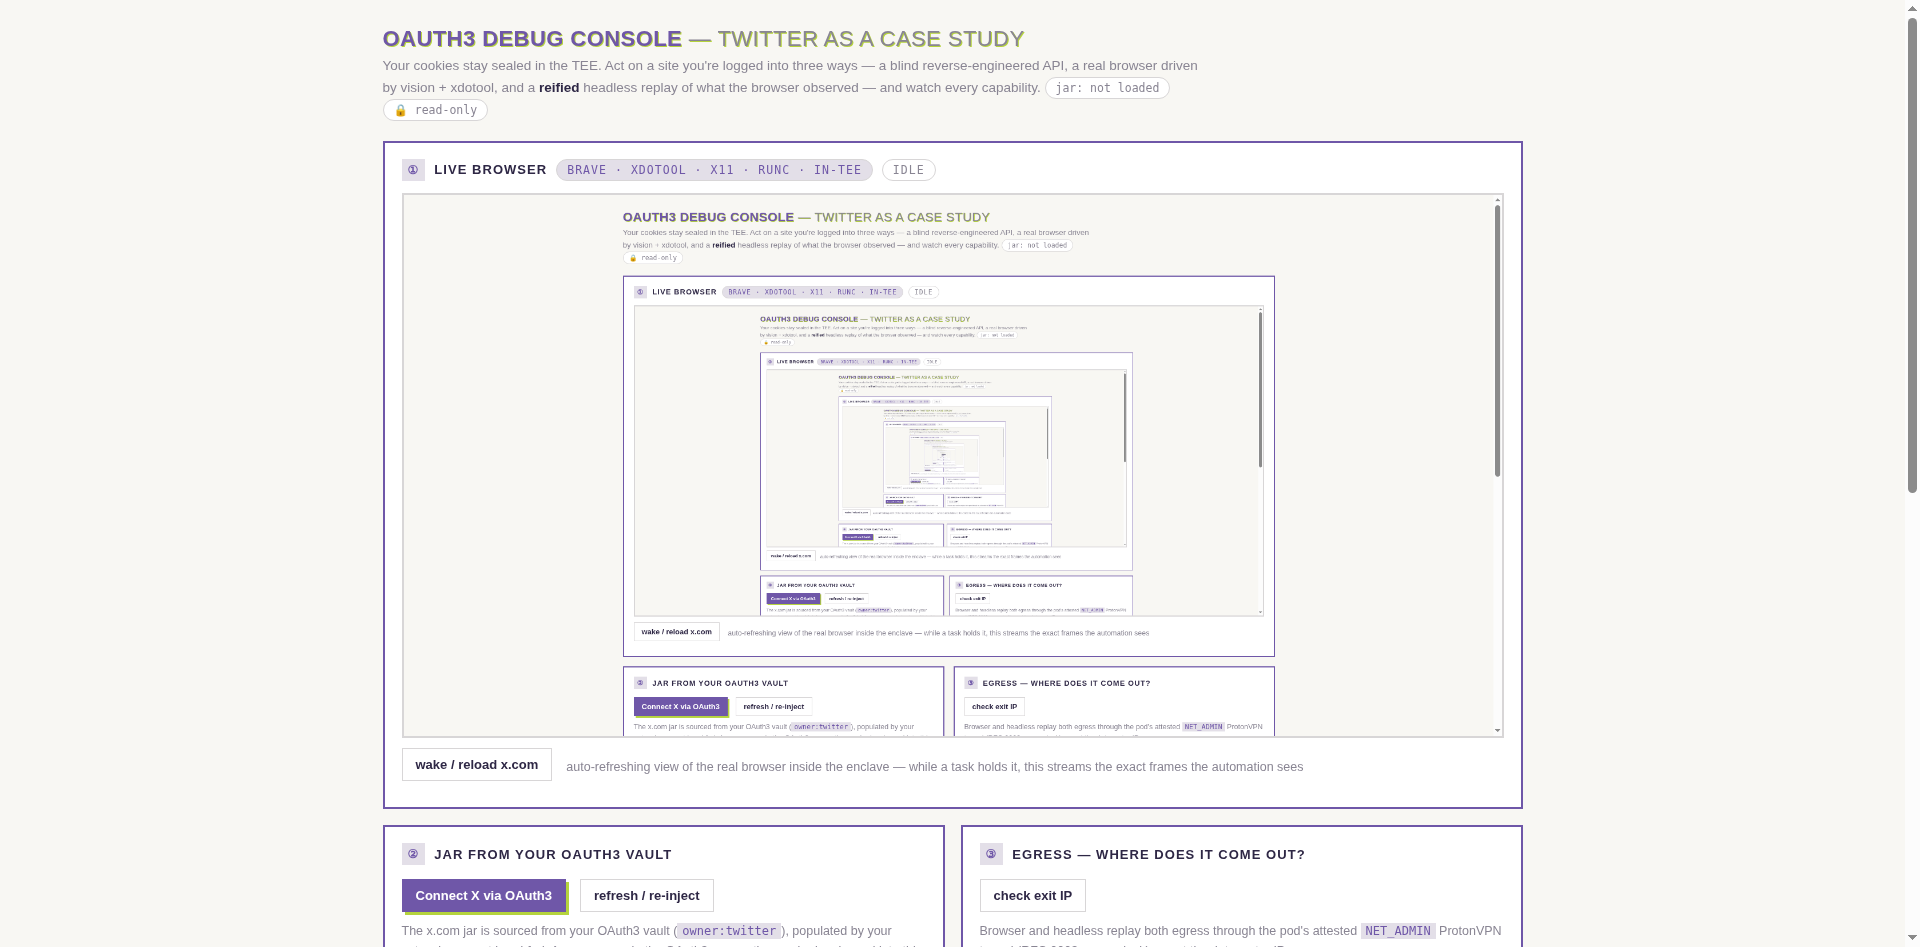
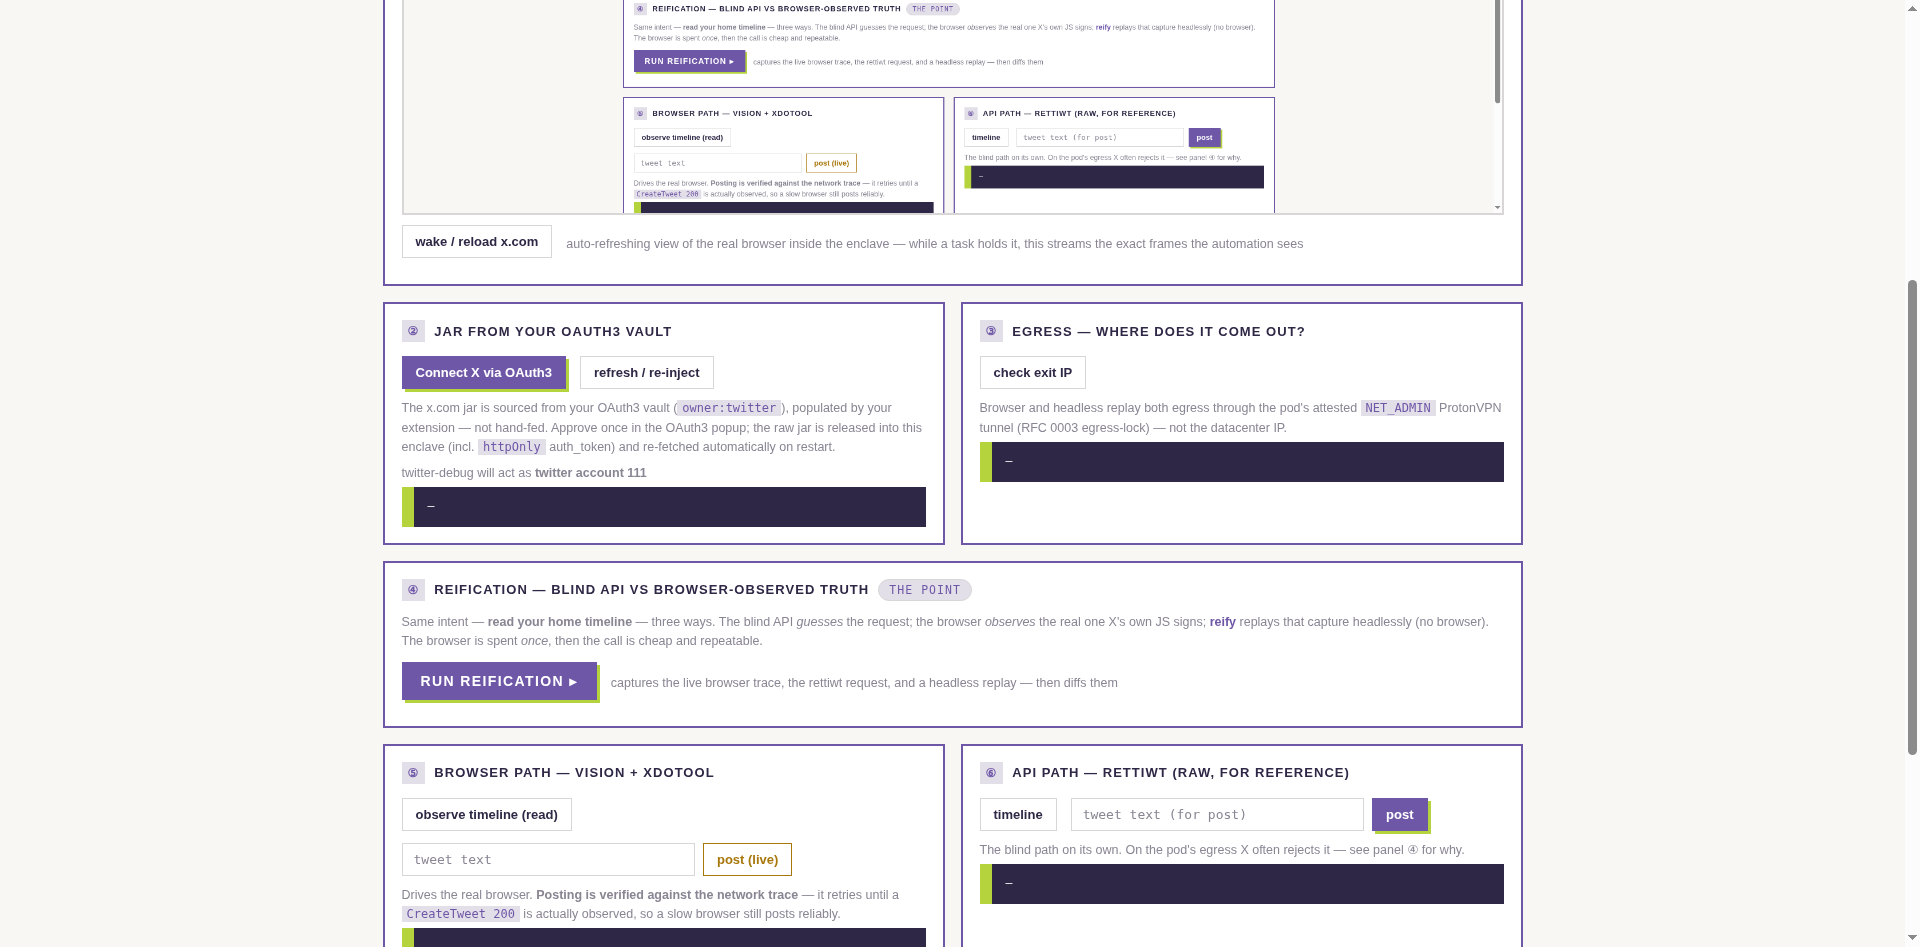
evidence(#69): re-capture consent-line PNGs scrolled into view + add default-state step
The pass-1 04-consent-line.png did NOT actually contain the consent line: #act-as lays
out at viewport y≈986 while the envoy viewport is 947px tall, so it sat below the fold and
the shot was misleading under the "does this image show the caption's claim?" rule.

- 04-consent-line.png (SET, ACCOUNT=111): re-captured after #act-as.scrollIntoView() →
  rect {y:463,inView:true}, text "twitter-debug will act as twitter account 111".
- 03-default-account.png (UNSET, ACCOUNT not set): new step showing the backward-compat
  path the PR preserves → "twitter-debug will act as your default twitter account".
- Cross-check: the two 1920×947 PNGs differ by exactly 1092 px, ALL inside the consent-
  line band (y≈460-490, x≈395-930) — the only visual difference is the account text.

Both are real envoy/neko Brave captures of the dashboard served by the real server.ts
(ACCOUNT set / unset), serialized with flock /tmp/envoy-bridge.lock. The screenshot tool
was confirmed to reflect live DOM (a full-screen red overlay yields a wholly different
image). No code changed in this commit — evidence only.

diff --git a/twitter-debug/.evidence/issue-69/flow.md b/twitter-debug/.evidence/issue-69/flow.md
@@ -61,39 +61,57 @@ sync XHR /twitter/oauth3/status → 200 {"connected":true,...,"account":"111"}
 ```
 See `bullet3-consent-evaluate.txt`.
 
-**PNG captured (rework pass, 2026-08-05).** The earlier "screenshot times out on every page"
-diagnosis was **wrong** — the bridge `screenshot` tool works on real `http(s)` URLs; it only fails
-on `about:blank`/`data:` pages, where the extension has no host permission (error: *"Cannot access
-contents url \"\" — Extension manifest must request permission to access this host"*), which the
-HTTP layer surfaces as a generic `timeout`. Re-running against the real dashboard URL captured the
-consent-line PNG on the first try. The real `server.ts` was booted with `ACCOUNT=111` (the #69
-change), so `/twitter/oauth3/status` returns `account:"111"`; the real dashboard's `pollConn` reads
-it and renders `#act-as`. Captured in the real envoy/neko Brave (serialized via
-`flock /tmp/envoy-bridge.lock`):
+**PNGs captured (rework pass 2, 2026-08-05) — consent line scrolled into view.** Two corrections
+from pass 1:
+1. The pass-1 "screenshot times out on every page" diagnosis was **wrong** — the bridge
+   `screenshot` tool works on real `http(s)` URLs (it only fails on `about:blank`/`data:` pages, no
+   host permission → generic `timeout`). The tool reflects live DOM (verified this pass: painting a
+   full-screen red overlay yields a completely different image).
+2. **The pass-1 viewport shot did not actually contain the consent line** — `#act-as` lays out at
+   viewport y≈986 while the envoy viewport is only 947px tall, so it sat *below the fold* and the
+   shot was misleading under the "does this image show the caption's claim?" rule. Fix: each shot
+   now runs `#act-as.scrollIntoView({block:'center'})` first, landing it at viewport y≈463
+   (`inView:true` verified) before the screenshot.
+
+Both shots below are real envoy/neko Brave captures of the dashboard served by the real `server.ts`,
+serialized with `flock /tmp/envoy-bridge.lock`.
+
+**`04-consent-line.png` — SET state (`ACCOUNT=111`), bullet 3 primary:**
 ```
 location.href        = http://172.17.0.1:8931/twitter-debug/
-sync XHR /twitter/oauth3/status → 200 {"connected":false,...,"account":"111"}   (real agent)
+#act-as rect         = {x:401,y:463,w:524,h:19,vh:947,inView:true}
 #act-as.textContent  = "twitter-debug will act as twitter account 111"
-ACCT (page global)   = "111"
-lockpill             = "🔒 read-only"   (this capture booted no token → unconnected; see note)
-screenshot           = 04-consent-line.png (1920×947, 156847 bytes, non-blank: per-channel
-                       stdev ≈17–24, 32 coarse colors)
+sync XHR /twitter/oauth3/status → 200 {"connected":false,...,"account":"111"}   (real agent)
+ACCT (page global)   = "111"      lockpill = "🔒 read-only" (rig booted no token)
 ```
-The consent line names the account. See `bullet3-consent-png.txt` and `04-consent-line.png`.
+**`03-default-account.png` — UNSET state (`ACCOUNT` not set): the backward-compat path the PR
+explicitly preserves ("behavior is unchanged when `ACCOUNT` is unset; single-jar subjects keep
+working") and a second, distinct Tier-2 step:**
+```
+location.href        = http://172.17.0.1:8931/twitter-debug/
+#act-as rect         = {x:401,y:463,w:524,h:19,vh:947,inView:true}
+#act-as.textContent  = "twitter-debug will act as your default twitter account"
+sync XHR /twitter/oauth3/status → 200 {"connected":false,...,"account":null}   (real agent)
+ACCT (page global)   = null       lockpill = "🔒 read-only"
+```
+**Cross-check (both PNGs are genuine and distinct):** the two 1920×947 shots differ by exactly
+1092 pixels, **all** inside the consent-line band (y≈460–490, x≈395–930) — i.e. the only visual
+difference is the consent-line text, which is driven solely by `status.account` (`TWITTER_ACCOUNT`).
+Everything else is pixel-identical, confirming the dashboard is in the same state apart from the
+account. See `bullet3-consent-png.txt`.
 
-**Honesty note on the PNG's lockpill.** This capture shows `🔒 read-only` (the local rig booted no
-OAuth3 token), where the earlier DOM assertion (connected path) showed `🔓 writes on`. The
-consent-line text — the thing bullet 3 claims — is **identical** in both states: it is driven solely
-by `status.account` (the `ACCOUNT` env via `TWITTER_ACCOUNT`), independent of connection. The
-connected path is already proven end-to-end in `bullet1-connect-account.txt` (real connect→approve
-→jar) and `bullet3-consent-evaluate.txt`. The PNG simply supplies the image artifact that was
-missing; it does not re-assert the connected write path.
+**Honesty note on the lockpill.** Both captures show `🔒 read-only` (the local rig booted no OAuth3
+token). The consent-line text — the thing bullet 3 claims — is **identical** connected or not: it
+depends only on `status.account`, not on connection. The connected write path ("🔓 writes on",
+account 111's jar loaded) is already proven end-to-end in `bullet1-connect-account.txt` (real
+connect→approve→jar) and `bullet3-consent-evaluate.txt`.
 
 ## Operator steps remaining
 1. **Redeploy twitter-debug** to webhost-staging (ghcr push + tee-daemon — operator-run from this
    box; no ghcr creds here) with `ACCOUNT=<bot twitter id>` in the project env, then walk the
    consent line on deployed staging signed in as `u-swarm` for the fully-deployed Tier-2 pass. The
-   on-box real-code PNG (`04-consent-line.png`) is the verifiable subset per the scope-down rule.
+   on-box real-code PNGs (`04-consent-line.png` + `03-default-account.png`) are the verifiable subset
+per the scope-down rule.
 2. The 409 log line is already proven against a real oauth3-server; on staging it will fire for real
    the first time a multi-account subject connects without `ACCOUNT` set.
 
